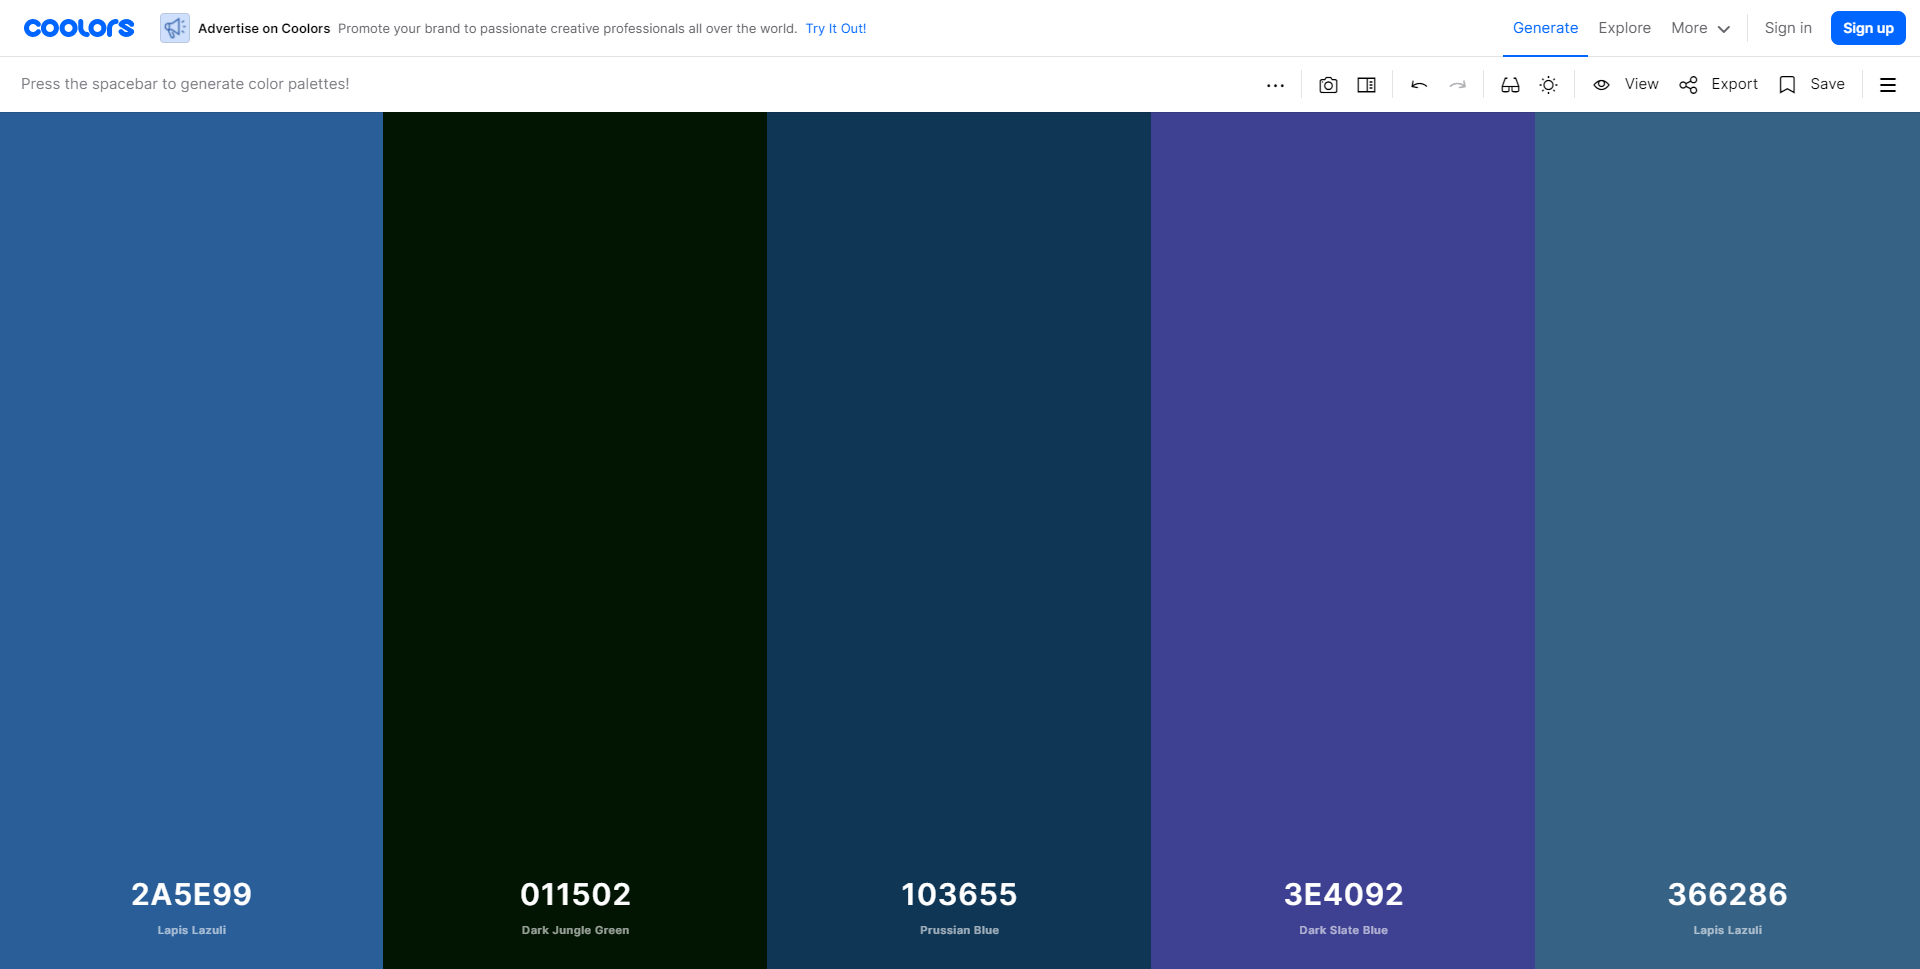
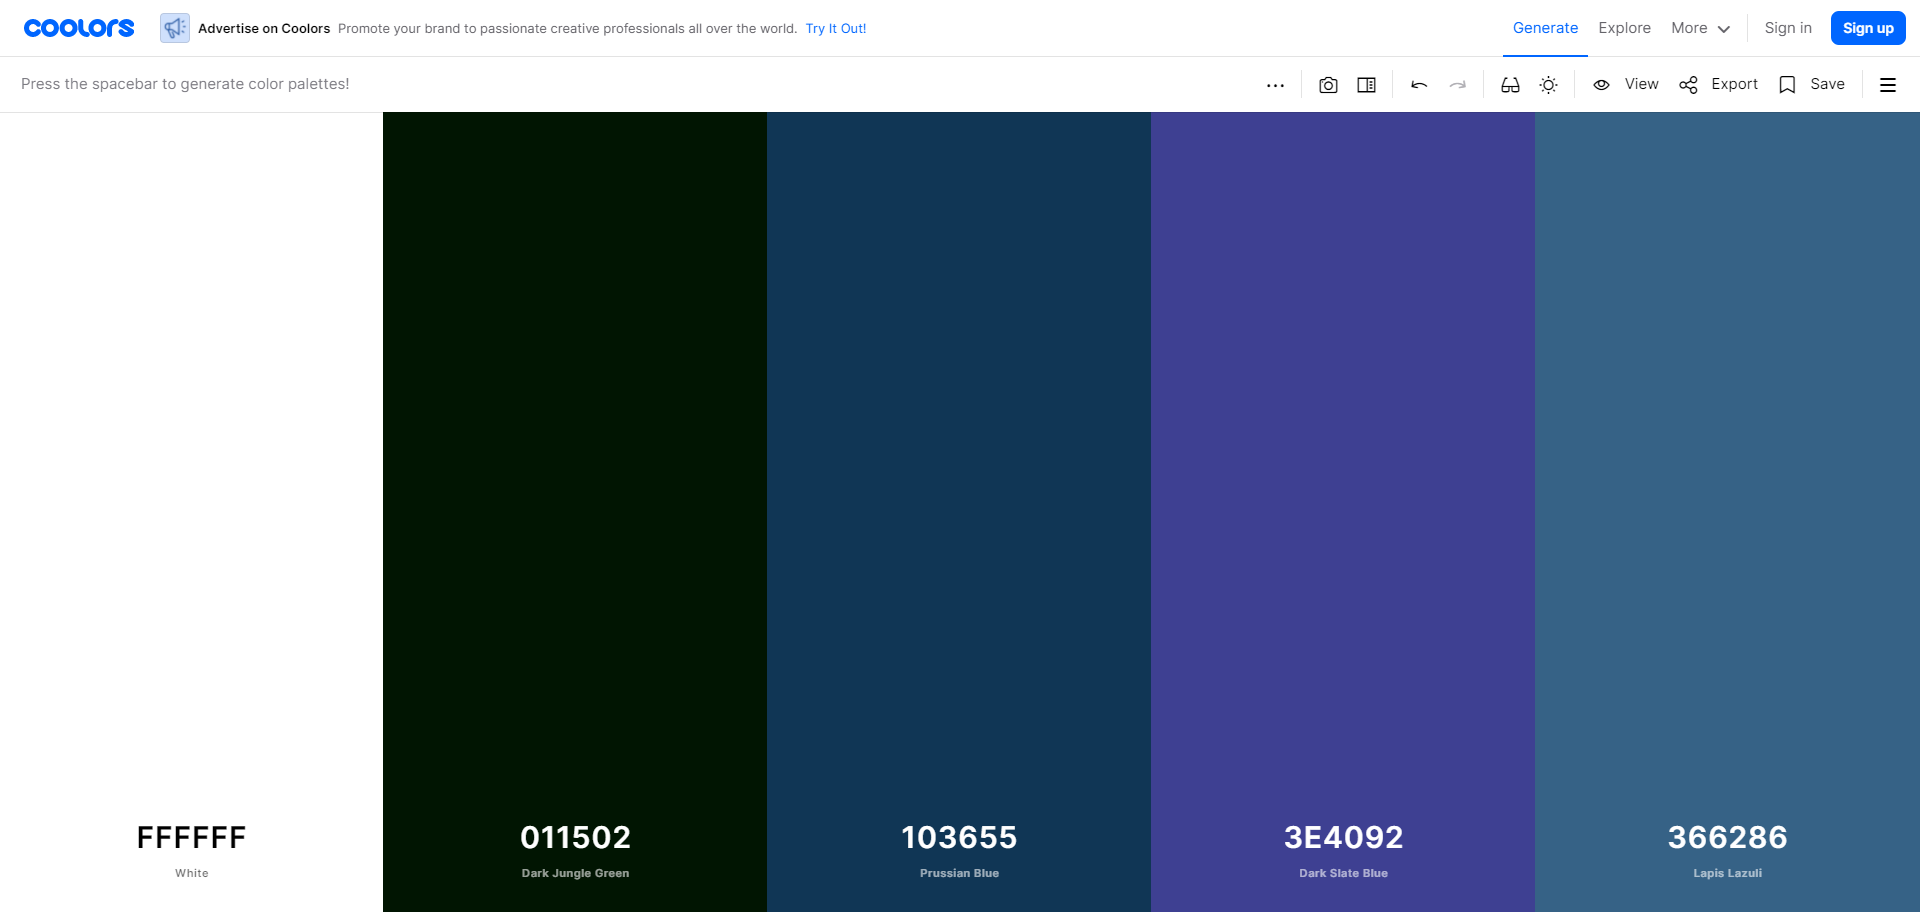
Final

diff --git a/color.html b/color.html
@@ -29,9 +29,14 @@
     <h2>Colors</h2><br><br>
       <div class="paragraph">
         <p>We will use the following colo scheme </p>
-        <p>
-            
-        </p>
+        <ul><li></li>
+        <li>#ffffff background color </li>
+        <li>#011502 paragraph color </li>
+        <li>#103655 navigation bg color</li>
+        <li>#3E4092 navigation hoover bg color</li>
+        <li>#366286 Footer bg color</li>
+    
+    </ul>
 <img src="/images/pallete_scheme.png" alt="">
       </div>
 
